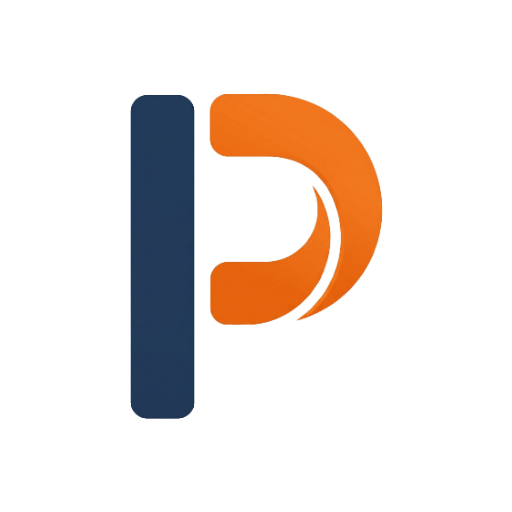
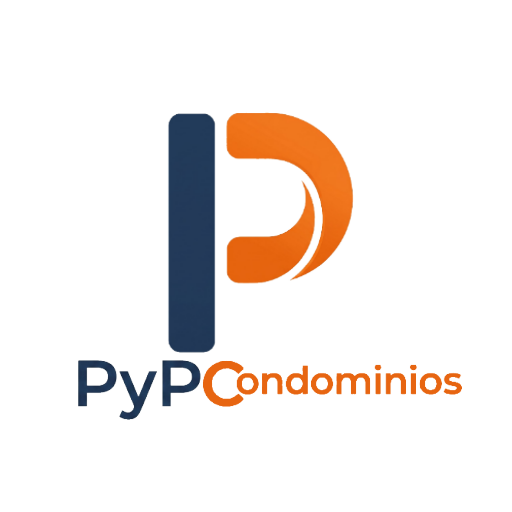
act

Changed region(s): [[0.125, 0.1562, 0.9062, 0.8438]]

diff --git a/src/pages/Login.jsx b/src/pages/Login.jsx
@@ -1,9 +1,6 @@
 import { useState } from 'react'
 import { Link } from 'react-router-dom'
 import { useAuth } from '../context/AuthContext'
-import Turnstile from '../components/Turnstile'
-
-const FALLOS_PARA_CAPTCHA = 3
 
 export default function Login() {
   const { iniciarSesion, recuperarContrasena } = useAuth()
@@ -15,12 +12,6 @@ export default function Login() {
   const [enviando, setEnviando] = useState(false)
   const [error, setError] = useState(null)
   const [aviso, setAviso] = useState(null)
-  // Tras varios intentos fallidos exigimos verificación humana. No bloquea la
-  // cuenta (eso podría usarse en contra del usuario); solo frena a los bots.
-  const [fallos, setFallos] = useState(0)
-  const [captchaToken, setCaptchaToken] = useState(null)
-
-  const requiereCaptcha = fallos >= FALLOS_PARA_CAPTCHA
 
   const validarEmail = (v) => /^[^\s@]+@[^\s@]+\.[^\s@]+$/.test(v)
 
@@ -54,20 +45,9 @@ export default function Login() {
       return
     }
 
-    if (requiereCaptcha && !captchaToken) {
-      setEnviando(false)
-      setError('Por favor complete la verificación de seguridad para continuar.')
-      return
-    }
-
-    const res = await iniciarSesion(email, password, captchaToken)
+    const res = await iniciarSesion(email, password)
     setEnviando(false)
-    if (!res.ok) {
-      setError(res.error)
-      setFallos((n) => n + 1)
-      // El token de Turnstile es de un solo uso: se limpia para el próximo intento.
-      setCaptchaToken(null)
-    }
+    if (!res.ok) setError(res.error)
     // Si tiene éxito, AuthProvider redirige automáticamente.
   }
 
@@ -103,7 +83,10 @@ export default function Login() {
               }}
             />
           </div>
-
+          
+          <h1 style={{ fontSize: '1.5rem', fontWeight: '800', color: '#0f172a', margin: '0 0 4px 0', letterSpacing: '-0.02em' }}>
+            PyP <span style={{ color: '#f97316' }}>Condominios</span>
+          </h1>
           <p style={{ fontSize: '0.85rem', color: '#64748b', margin: 0, fontWeight: '500' }}>
             Sistema de Gestión y Finanzas
           </p>
@@ -154,24 +137,7 @@ export default function Login() {
           {error && <div className="alerta alerta-error">{error}</div>}
           {aviso && <div className="alerta alerta-exito">{aviso}</div>}
 
-          {modo === 'login' && requiereCaptcha && (
-            <div style={{ display: 'flex', flexDirection: 'column', alignItems: 'center' }}>
-              <small className="texto-ayuda" style={{ marginBottom: 4 }}>
-                Por seguridad, confirme que no es un robot.
-              </small>
-              <Turnstile
-                accion="login"
-                onToken={setCaptchaToken}
-                onExpire={() => setCaptchaToken(null)}
-              />
-            </div>
-          )}
-
-          <button
-            type="submit"
-            className="btn btn-primary"
-            disabled={enviando || (modo === 'login' && requiereCaptcha && !captchaToken)}
-          >
+          <button type="submit" className="btn btn-primary" disabled={enviando}>
             {enviando
               ? 'Procesando…'
               : modo === 'login'
